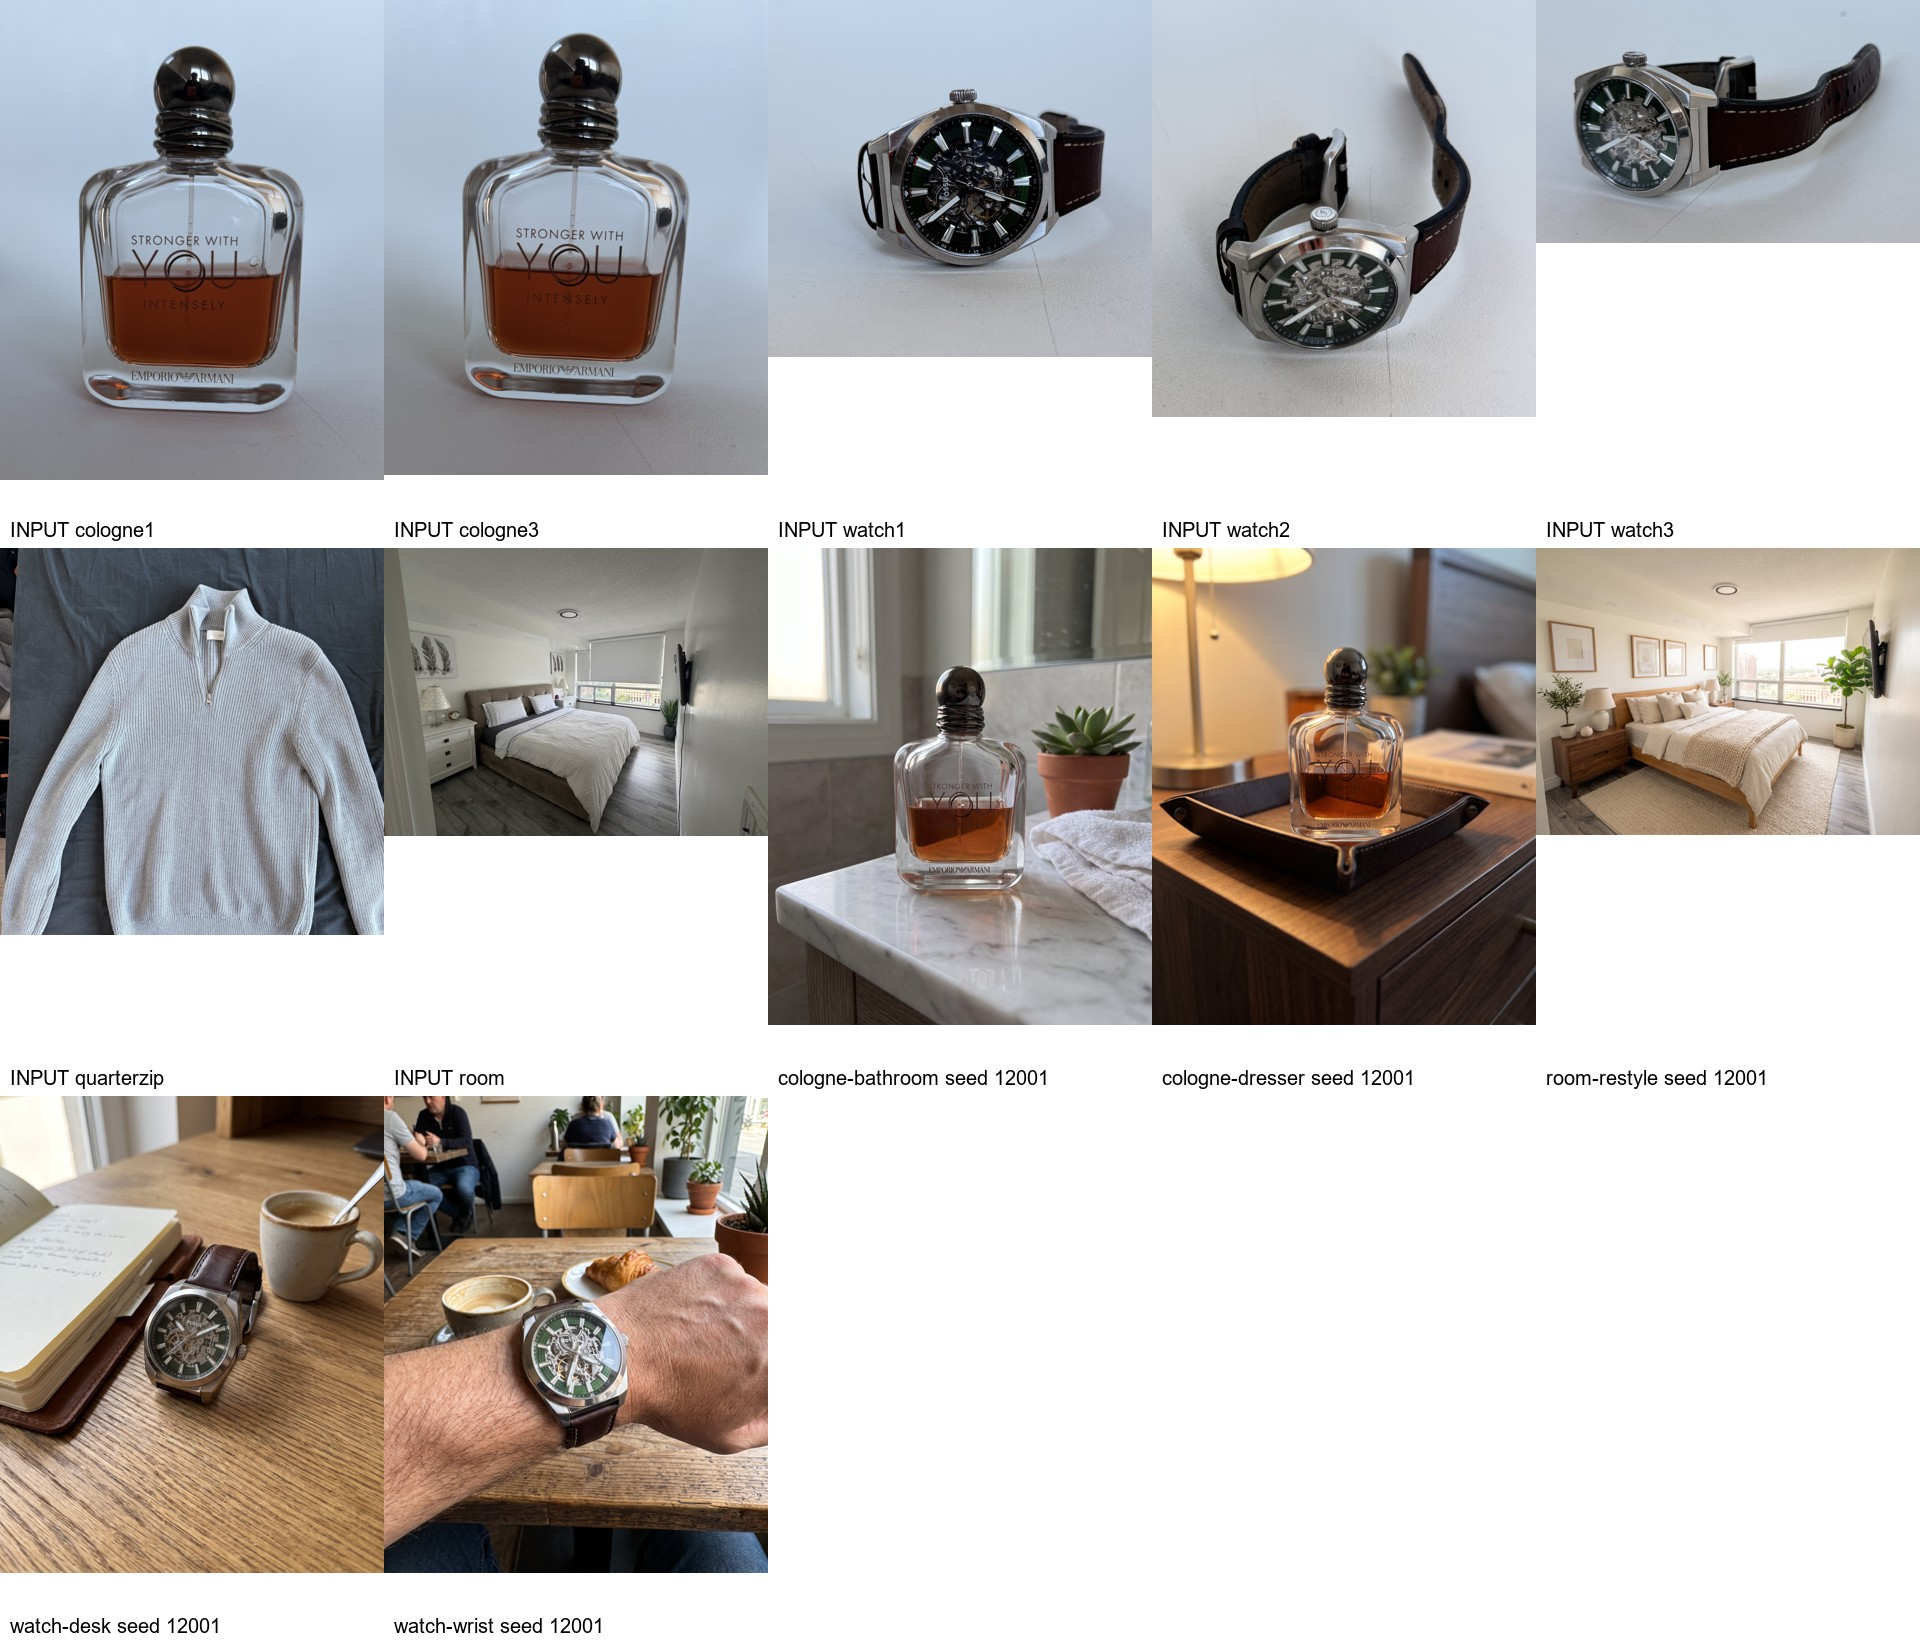
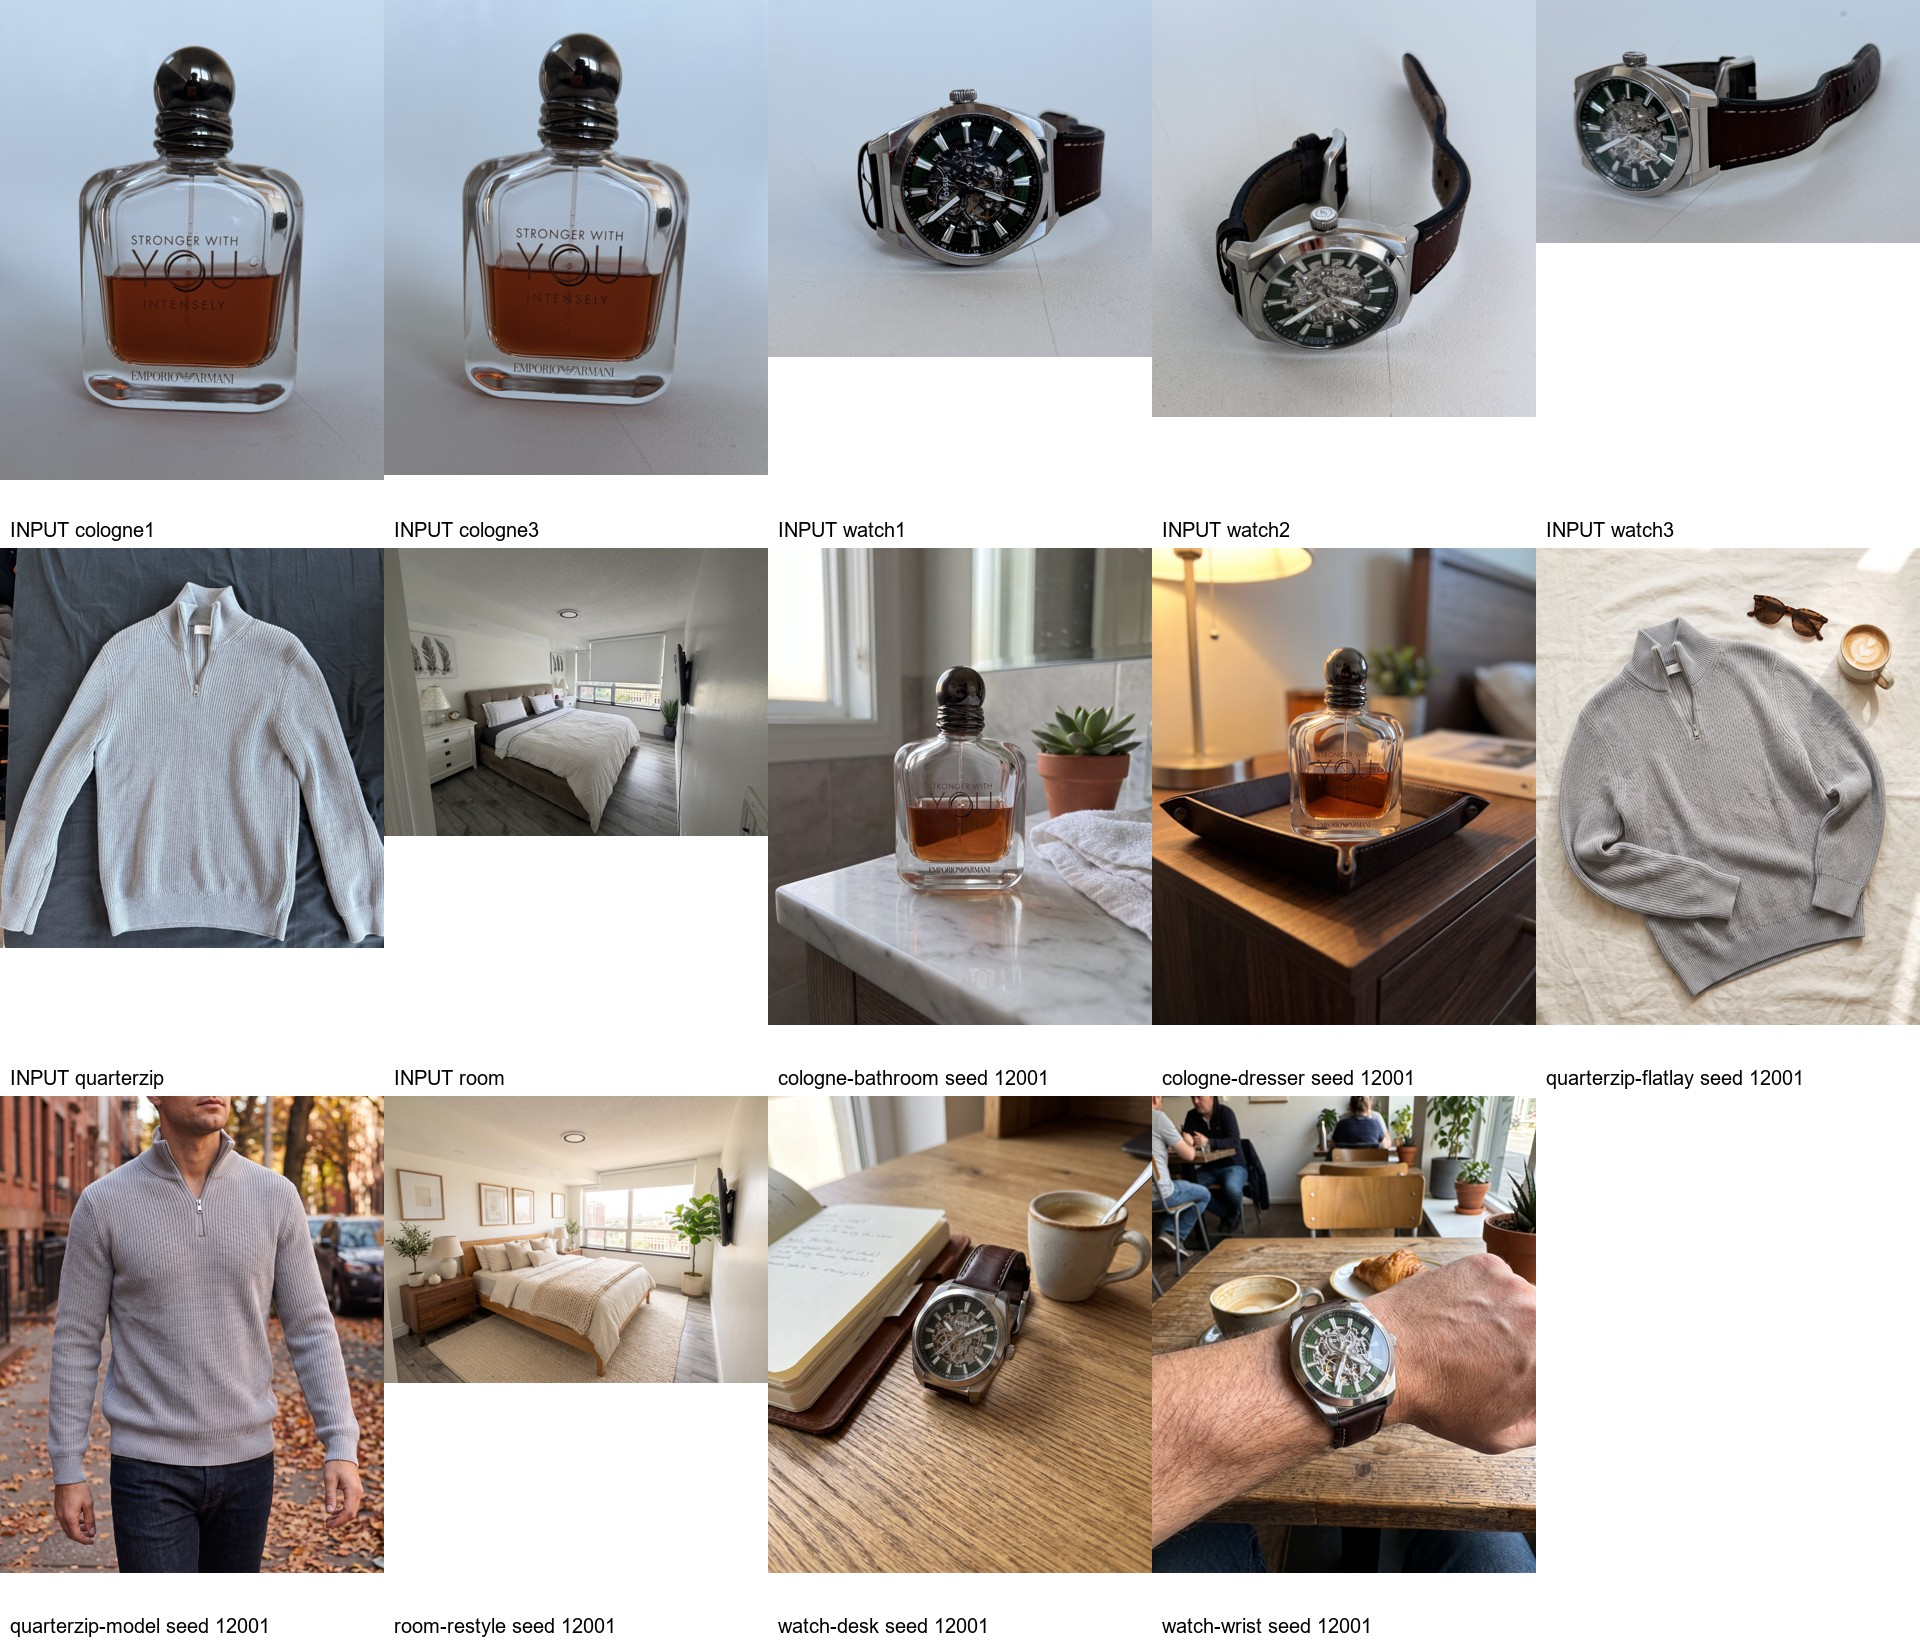
Exp 012 portfolio batch run 2: quarter-zip arms with corrected crop
Crop (0.000, 0.068, 1.000, 0.850) keeps the waistband and cuffs in frame.
Two images, est. $0.30; batch total est. $1.05 for 7 images.

Changed region(s): [[0.0, 0.3102, 1.0, 0.9927], [0.0, 0.3412, 0.2188, 0.5894]]

diff --git a/EXPERIMENT_LOG.md b/EXPERIMENT_LOG.md
@@ -984,14 +984,14 @@ Pending founder + ChatGPT review (and optional blind human viewing). No further 
 
 ---
 
-## Experiment 012 — Portfolio batch, run 1 (2026-10-27)
+## Experiment 012 — Portfolio batch (2026-10-27)
 
-**Status:** 5 of 7 arms generated; the 2 quarter-zip arms are held. Within the approved $20 Exp 012 cap (batch cap $3.00). No video.
+**Status:** All 7 arms generated (run 1: 5 arms; run 2: the 2 quarter-zip arms after a crop fix). Awaiting founder review. Within the approved $20 Exp 012 cap (batch cap $3.00). No video.
 
 - **Inputs:** the founder's own photos (git-ignored, `portfolio/inputs/`). Each one was made upright (EXIF), cropped to the founder's boxes, downscaled to a long edge of at most 3072 px and saved as JPEG q95. The config hashes both the originals and the copies that were sent.
 - **Model:** `fal-ai/nano-banana-pro/edit`, 2K PNG, seed 12001. Price re-checked 2026-10-27: $0.15/image (4K is charged 2x). Products are 4:5 (1856×2304); the room is 4:3 (2400×1792).
 - **Arms run:** cologne-bathroom, cologne-dresser, watch-desk, watch-wrist, room-restyle. Prompts are in `portfolio/prompts/`, filled in from the shared templates. `prompts/prompt_realestate_restyle.txt` was drafted from the staging template because the founder-supplied file was not found.
-- **Held:** quarterzip-flatlay and quarterzip-model. The crop box (0.000, 0.068, 0.940, 0.778) cuts off the waistband and both cuffs (the garment ends at about y 0.84, and the right cuff reaches the photo edge). Needs a corrected box.
-- **Cost:** est. $0.75 (5 × $0.15). Month-to-date ≈ $26.53 of $110 (confirm in the fal dashboard).
-- **First look (not a gate verdict):** the room output appears to change the window (blinds raised, wider city view) and the framing of the right wall, so it likely fails G4. Product outputs need the 100% zoom check on logo and label text.
+- **Quarter-zip crop fix:** the first box (0.000, 0.068, 0.940, 0.778) cut off the waistband and both cuffs, so it was held and never sent. Run 2 used the founder-approved box (0.000, 0.068, 1.000, 0.850); the sleeve outer edges touch the original photo edges.
+- **Cost:** est. $1.05 (7 × $0.15; run 1 $0.75, run 2 $0.30). Month-to-date ≈ $26.83 of $110 (confirm in the fal dashboard).
+- **First look (not a gate verdict):** the room output appears to change the window (blinds raised, wider city view) and the framing of the right wall, so it likely fails G4. Product outputs need the 100% zoom check on logo and label text. The quarter-zip outputs read slightly greyer and less blue than the input (G5 colour check), and the model shot is framed from the nose down.
 - **Files:** `portfolio/config.json`, `runs.jsonl`, `contact_sheet.jpg`, `pairs_sheet.jpg` (input vs output), `review.csv` (quality-gate columns, unscored). Full-size outputs are git-ignored and mirrored to BACKUP_DIR.
